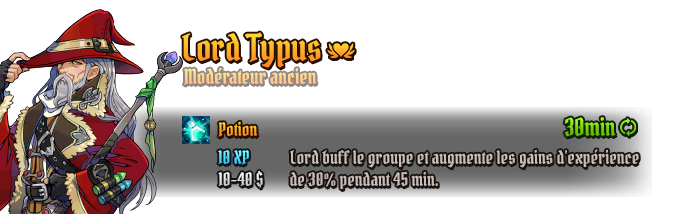
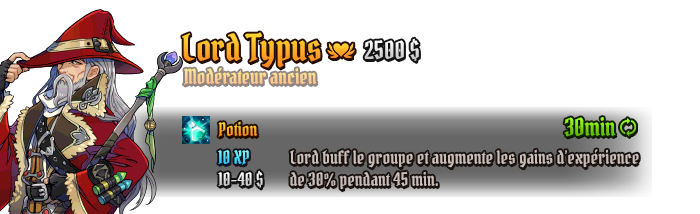
Modification message et image

Changed region(s): [[0.51, 0.1682, 0.6, 0.3084]]

diff --git a/oxemHeroes/gameMember/constants.py b/oxemHeroes/gameMember/constants.py
@@ -163,7 +163,7 @@ DONE = {
 ERRORS = {
     'already_hero': "Vous jouez déjà ce héros.",
     'hero_dne': "Ce héros n'existe pas.",
-    'not_enough_silver': "Tu n'as pas assez de silver pour acheter ce héros.",
+    'not_enough_silver': "Tu n'as pas assez de silver pour recruter ce héros, il coûte {} silver.",
     'not_enough_token': "Tu n'as pas assez de jeton pour changer de héros.",
     'not_own': "Tu ne possède pas ce héros (!acheter).",
 }

diff --git a/oxemHeroes/gameMember/commands.py b/oxemHeroes/gameMember/commands.py
@@ -118,7 +118,7 @@ class Commands(object):
                 message = gameMember.buy_hero(parameters[0].lower())
 
         else:
-            message = command.how_to
+            message = command.how_to + "\n```Css\n [/!\ Lord Typus s'écrit lord_typus /!\]```"
             files = []
             path = "{}/oxemHeroes/classe/static/image".format(settings.DJANGO_ROOT)
             for file in os.listdir(path):

diff --git a/oxemHeroes/gameMember/models.py b/oxemHeroes/gameMember/models.py
@@ -136,7 +136,7 @@ class GameMember(models.Model):
                 self.save(update_fields=['inventory', 'silver'])
                 message = DONE['recruter'].format(classe.name)
             else:
-                message = ERRORS['not_enough_silver']
+                message = ERRORS['not_enough_silver'].format(classe.price)
 
         return message
 
